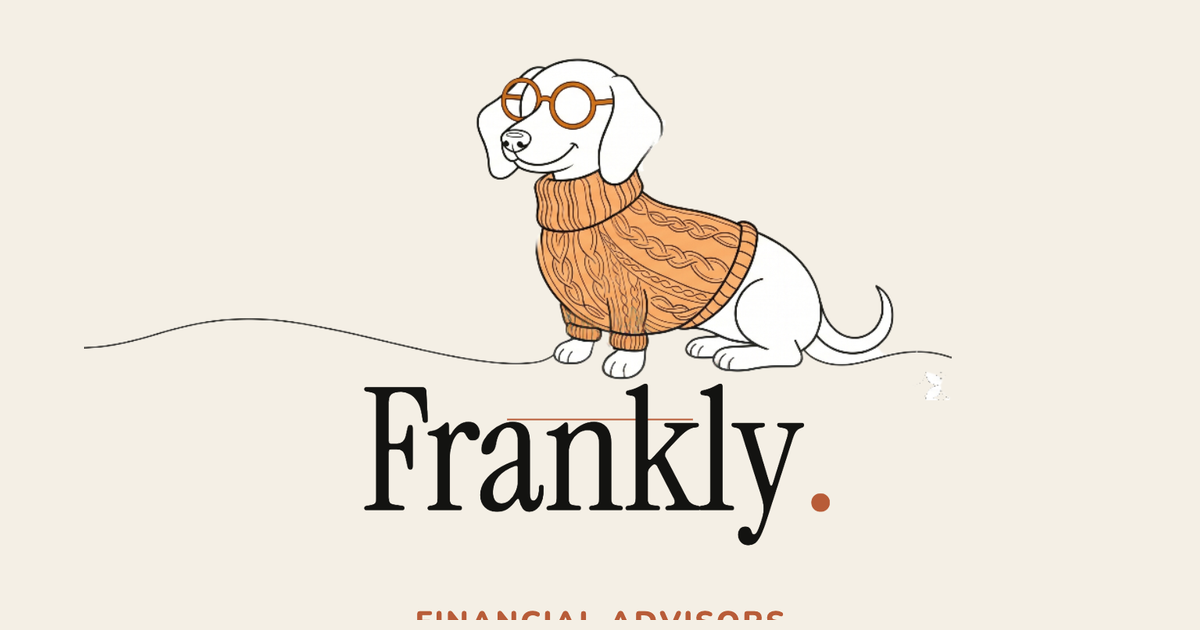
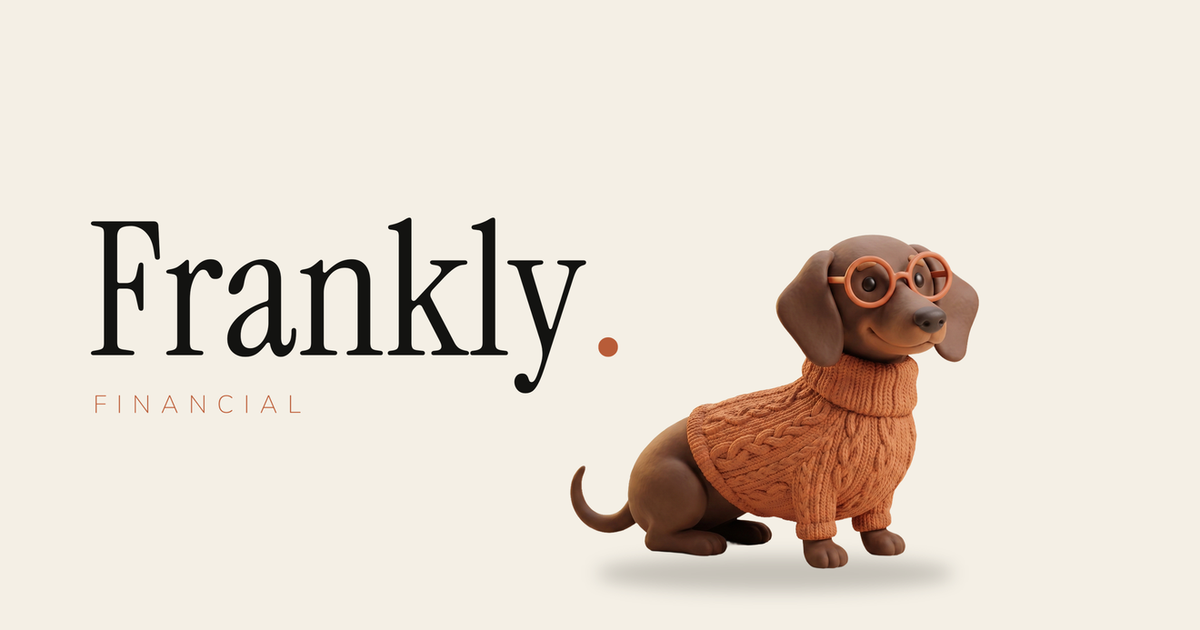
Rebrand stragglers: Instrument Serif monogram, new og-image, retire line-art
- favicon.svg: F. monogram re-set in Instrument Serif (was Georgia), glyph
  converted to an SVG path so no viewer font is needed
- All raster icons regenerated from the Instrument Serif TTF: favicon.ico
  (root + images/), favicon-16x16/32x32, apple-touch-icon, icon-192/512
- og-image.png: new 1200x630 share card cropped from the design-system
  wordmark + 3D-clay-Frank hero lockup (replaces the old sketch-mascot
  "FINANCIAL ADVISORS" card)
- T2 blog cover SVG: "T2" re-set as Instrument Serif paths
- Icon/og references cache-busted v2 -> v3 site-wide (images/* ships with
  immutable 1y caching); site.webmanifest icons versioned too
- Removed retired hand-sketched line-art assets, all unreferenced:
  hero-dog.png, about-businessman.png, phone-receiver.png, cash-stack.png

diff --git a/index.html b/index.html
@@ -22,7 +22,7 @@
 <meta property="og:url" content="https://franklyfinancial.co/">
 <meta property="og:title" content="Frankly Financial — Bookkeeping for businesses that hate bookkeeping.">
 <meta property="og:description" content="Real humans, real numbers, real answers, delivered monthly. CFO-grade rigour, no CFO-grade invoice.">
-<meta property="og:image" content="https://franklyfinancial.co/images/og-image.png?v=2">
+<meta property="og:image" content="https://franklyfinancial.co/images/og-image.png?v=3">
 <meta property="og:image:width" content="1200">
 <meta property="og:image:height" content="630">
 <meta property="og:site_name" content="Frankly Financial">
@@ -30,7 +30,7 @@
 <meta name="twitter:card" content="summary_large_image">
 <meta name="twitter:title" content="Frankly Financial — Bookkeeping for businesses that hate bookkeeping.">
 <meta name="twitter:description" content="Real humans, real numbers, real answers, delivered monthly.">
-<meta name="twitter:image" content="https://franklyfinancial.co/images/og-image.png?v=2">
+<meta name="twitter:image" content="https://franklyfinancial.co/images/og-image.png?v=3">
 
 <script type="application/ld+json">
 {
@@ -39,7 +39,7 @@
   "name": "Frankly Financial",
   "url": "https://franklyfinancial.co",
   "image": "https://franklyfinancial.co/images/og-image.png",
-  "logo": "https://franklyfinancial.co/images/icon-512.png",
+  "logo": "https://franklyfinancial.co/images/icon-512.png?v=3",
   "email": "hello@franklyfinancial.co",
   "description": "Bookkeeping, financial reporting, and tax support for small businesses across Canada and the United States, including cross-border Canada–US filings. Real humans, real numbers, real answers, delivered monthly.",
   "areaServed": [
@@ -72,15 +72,15 @@
   "@type": "WebSite",
   "name": "Frankly Financial",
   "url": "https://franklyfinancial.co",
-  "publisher": {"@type": "Organization", "name": "Frankly Financial", "logo": {"@type": "ImageObject", "url": "https://franklyfinancial.co/images/icon-512.png"}}
+  "publisher": {"@type": "Organization", "name": "Frankly Financial", "logo": {"@type": "ImageObject", "url": "https://franklyfinancial.co/images/icon-512.png?v=3"}}
 }
 </script>
 
-<link rel="icon" type="image/svg+xml" href="/images/favicon.svg?v=2">
-<link rel="icon" type="image/x-icon" href="/images/favicon.ico?v=2">
-<link rel="icon" type="image/png" sizes="32x32" href="/images/favicon-32x32.png?v=2">
-<link rel="icon" type="image/png" sizes="16x16" href="/images/favicon-16x16.png?v=2">
-<link rel="apple-touch-icon" sizes="180x180" href="/images/apple-touch-icon.png?v=2">
+<link rel="icon" type="image/svg+xml" href="/images/favicon.svg?v=3">
+<link rel="icon" type="image/x-icon" href="/images/favicon.ico?v=3">
+<link rel="icon" type="image/png" sizes="32x32" href="/images/favicon-32x32.png?v=3">
+<link rel="icon" type="image/png" sizes="16x16" href="/images/favicon-16x16.png?v=3">
+<link rel="apple-touch-icon" sizes="180x180" href="/images/apple-touch-icon.png?v=3">
 <link rel="manifest" href="/site.webmanifest">
 <meta name="theme-color" content="#F4EFE5">
 

diff --git a/blog/index.html b/blog/index.html
@@ -19,12 +19,12 @@
 <meta property="og:url" content="https://franklyfinancial.co/blog/">
 <meta property="og:title" content="The Frankly Blog — Money Answers for Toronto Small Businesses">
 <meta property="og:description" content="Plain-English guides on accounting, bookkeeping, corporate tax, HST, and payroll for Toronto small businesses. Real 2026 numbers, no jargon.">
-<meta property="og:image" content="https://franklyfinancial.co/images/og-image.png">
+<meta property="og:image" content="https://franklyfinancial.co/images/og-image.png?v=3">
 <meta property="og:site_name" content="Frankly Financial">
 <meta name="twitter:card" content="summary_large_image">
 <meta name="twitter:title" content="The Frankly Blog — Money Answers for Toronto Small Businesses">
 <meta name="twitter:description" content="Plain-English guides on accounting, bookkeeping, tax, HST, and payroll for Toronto small businesses.">
-<meta name="twitter:image" content="https://franklyfinancial.co/images/og-image.png">
+<meta name="twitter:image" content="https://franklyfinancial.co/images/og-image.png?v=3">
 <script type="application/ld+json">
 {
   "@context": "https://schema.org",
@@ -41,7 +41,7 @@
   "@type": "AccountingService",
   "name": "Frankly Financial",
   "url": "https://franklyfinancial.co",
-  "image": "https://franklyfinancial.co/images/og-image.png",
+  "image": "https://franklyfinancial.co/images/og-image.png?v=3",
   "description": "Bookkeeping, financial reporting, and tax support for small businesses in Toronto and across Canada. Real humans, real numbers, real answers.",
   "areaServed": [
     {"@type": "City", "name": "Toronto"},
@@ -53,11 +53,11 @@
   "sameAs": ["https://www.linkedin.com/company/franklyfinancial/", "https://www.instagram.com/frankly.financial/", "https://www.tiktok.com/@franklyfinancial"]
 }
 </script>
-<link rel="icon" type="image/svg+xml" href="/images/favicon.svg?v=2">
-<link rel="icon" type="image/x-icon" href="/images/favicon.ico?v=2">
-<link rel="icon" type="image/png" sizes="32x32" href="/images/favicon-32x32.png?v=2">
-<link rel="icon" type="image/png" sizes="16x16" href="/images/favicon-16x16.png?v=2">
-<link rel="apple-touch-icon" sizes="180x180" href="/images/apple-touch-icon.png?v=2">
+<link rel="icon" type="image/svg+xml" href="/images/favicon.svg?v=3">
+<link rel="icon" type="image/x-icon" href="/images/favicon.ico?v=3">
+<link rel="icon" type="image/png" sizes="32x32" href="/images/favicon-32x32.png?v=3">
+<link rel="icon" type="image/png" sizes="16x16" href="/images/favicon-16x16.png?v=3">
+<link rel="apple-touch-icon" sizes="180x180" href="/images/apple-touch-icon.png?v=3">
 <link rel="manifest" href="/site.webmanifest">
 <meta name="theme-color" content="#F4EFE5">
 <link rel="preconnect" href="https://fonts.googleapis.com">

diff --git a/termsofuse.html b/termsofuse.html
@@ -14,11 +14,11 @@
   gtag('config', 'G-4472WPYKS1');
 </script>
 <meta name="description" content="Terms of use for the Frankly Financial client portal, including connected accounting platforms such as QuickBooks Online.">
-<link rel="icon" type="image/svg+xml" href="/images/favicon.svg?v=2">
-<link rel="icon" type="image/x-icon" href="/images/favicon.ico?v=2">
-<link rel="icon" type="image/png" sizes="32x32" href="/images/favicon-32x32.png?v=2">
-<link rel="icon" type="image/png" sizes="16x16" href="/images/favicon-16x16.png?v=2">
-<link rel="apple-touch-icon" sizes="180x180" href="/images/apple-touch-icon.png?v=2">
+<link rel="icon" type="image/svg+xml" href="/images/favicon.svg?v=3">
+<link rel="icon" type="image/x-icon" href="/images/favicon.ico?v=3">
+<link rel="icon" type="image/png" sizes="32x32" href="/images/favicon-32x32.png?v=3">
+<link rel="icon" type="image/png" sizes="16x16" href="/images/favicon-16x16.png?v=3">
+<link rel="apple-touch-icon" sizes="180x180" href="/images/apple-touch-icon.png?v=3">
 <link rel="manifest" href="/site.webmanifest">
 <meta name="theme-color" content="#F4EFE5">
 <link rel="preconnect" href="https://fonts.googleapis.com">

diff --git a/termsofservice.html b/termsofservice.html
@@ -14,11 +14,11 @@
   gtag('config', 'G-4472WPYKS1');
 </script>
 <meta name="description" content="Data handling, confidentiality, and use of technology policy for Frankly Financial Ltd.">
-<link rel="icon" type="image/svg+xml" href="/images/favicon.svg?v=2">
-<link rel="icon" type="image/x-icon" href="/images/favicon.ico?v=2">
-<link rel="icon" type="image/png" sizes="32x32" href="/images/favicon-32x32.png?v=2">
-<link rel="icon" type="image/png" sizes="16x16" href="/images/favicon-16x16.png?v=2">
-<link rel="apple-touch-icon" sizes="180x180" href="/images/apple-touch-icon.png?v=2">
+<link rel="icon" type="image/svg+xml" href="/images/favicon.svg?v=3">
+<link rel="icon" type="image/x-icon" href="/images/favicon.ico?v=3">
+<link rel="icon" type="image/png" sizes="32x32" href="/images/favicon-32x32.png?v=3">
+<link rel="icon" type="image/png" sizes="16x16" href="/images/favicon-16x16.png?v=3">
+<link rel="apple-touch-icon" sizes="180x180" href="/images/apple-touch-icon.png?v=3">
 <link rel="manifest" href="/site.webmanifest">
 <meta name="theme-color" content="#F4EFE5">
 <link rel="preconnect" href="https://fonts.googleapis.com">

diff --git a/blog/hst-small-business-ontario.html b/blog/hst-small-business-ontario.html
@@ -103,11 +103,11 @@
   ]
 }
 </script>
-<link rel="icon" type="image/svg+xml" href="/images/favicon.svg?v=2">
-<link rel="icon" type="image/x-icon" href="/images/favicon.ico?v=2">
-<link rel="icon" type="image/png" sizes="32x32" href="/images/favicon-32x32.png?v=2">
-<link rel="icon" type="image/png" sizes="16x16" href="/images/favicon-16x16.png?v=2">
-<link rel="apple-touch-icon" sizes="180x180" href="/images/apple-touch-icon.png?v=2">
+<link rel="icon" type="image/svg+xml" href="/images/favicon.svg?v=3">
+<link rel="icon" type="image/x-icon" href="/images/favicon.ico?v=3">
+<link rel="icon" type="image/png" sizes="32x32" href="/images/favicon-32x32.png?v=3">
+<link rel="icon" type="image/png" sizes="16x16" href="/images/favicon-16x16.png?v=3">
+<link rel="apple-touch-icon" sizes="180x180" href="/images/apple-touch-icon.png?v=3">
 <link rel="manifest" href="/site.webmanifest">
 <meta name="theme-color" content="#F4EFE5">
 <link rel="preconnect" href="https://fonts.googleapis.com">

diff --git a/blog/incorporation-vs-sole-proprietorship-ontario.html b/blog/incorporation-vs-sole-proprietorship-ontario.html
@@ -108,11 +108,11 @@
   ]
 }
 </script>
-<link rel="icon" type="image/svg+xml" href="/images/favicon.svg?v=2">
-<link rel="icon" type="image/x-icon" href="/images/favicon.ico?v=2">
-<link rel="icon" type="image/png" sizes="32x32" href="/images/favicon-32x32.png?v=2">
-<link rel="icon" type="image/png" sizes="16x16" href="/images/favicon-16x16.png?v=2">
-<link rel="apple-touch-icon" sizes="180x180" href="/images/apple-touch-icon.png?v=2">
+<link rel="icon" type="image/svg+xml" href="/images/favicon.svg?v=3">
+<link rel="icon" type="image/x-icon" href="/images/favicon.ico?v=3">
+<link rel="icon" type="image/png" sizes="32x32" href="/images/favicon-32x32.png?v=3">
+<link rel="icon" type="image/png" sizes="16x16" href="/images/favicon-16x16.png?v=3">
+<link rel="apple-touch-icon" sizes="180x180" href="/images/apple-touch-icon.png?v=3">
 <link rel="manifest" href="/site.webmanifest">
 <meta name="theme-color" content="#F4EFE5">
 <link rel="preconnect" href="https://fonts.googleapis.com">

diff --git a/blog/payroll-small-business-ontario.html b/blog/payroll-small-business-ontario.html
@@ -103,11 +103,11 @@
   ]
 }
 </script>
-<link rel="icon" type="image/svg+xml" href="/images/favicon.svg?v=2">
-<link rel="icon" type="image/x-icon" href="/images/favicon.ico?v=2">
-<link rel="icon" type="image/png" sizes="32x32" href="/images/favicon-32x32.png?v=2">
-<link rel="icon" type="image/png" sizes="16x16" href="/images/favicon-16x16.png?v=2">
-<link rel="apple-touch-icon" sizes="180x180" href="/images/apple-touch-icon.png?v=2">
+<link rel="icon" type="image/svg+xml" href="/images/favicon.svg?v=3">
+<link rel="icon" type="image/x-icon" href="/images/favicon.ico?v=3">
+<link rel="icon" type="image/png" sizes="32x32" href="/images/favicon-32x32.png?v=3">
+<link rel="icon" type="image/png" sizes="16x16" href="/images/favicon-16x16.png?v=3">
+<link rel="apple-touch-icon" sizes="180x180" href="/images/apple-touch-icon.png?v=3">
 <link rel="manifest" href="/site.webmanifest">
 <meta name="theme-color" content="#F4EFE5">
 <link rel="preconnect" href="https://fonts.googleapis.com">

diff --git a/blog/small-business-accountant-toronto.html b/blog/small-business-accountant-toronto.html
@@ -103,11 +103,11 @@
   ]
 }
 </script>
-<link rel="icon" type="image/svg+xml" href="/images/favicon.svg?v=2">
-<link rel="icon" type="image/x-icon" href="/images/favicon.ico?v=2">
-<link rel="icon" type="image/png" sizes="32x32" href="/images/favicon-32x32.png?v=2">
-<link rel="icon" type="image/png" sizes="16x16" href="/images/favicon-16x16.png?v=2">
-<link rel="apple-touch-icon" sizes="180x180" href="/images/apple-touch-icon.png?v=2">
+<link rel="icon" type="image/svg+xml" href="/images/favicon.svg?v=3">
+<link rel="icon" type="image/x-icon" href="/images/favicon.ico?v=3">
+<link rel="icon" type="image/png" sizes="32x32" href="/images/favicon-32x32.png?v=3">
+<link rel="icon" type="image/png" sizes="16x16" href="/images/favicon-16x16.png?v=3">
+<link rel="apple-touch-icon" sizes="180x180" href="/images/apple-touch-icon.png?v=3">
 <link rel="manifest" href="/site.webmanifest">
 <meta name="theme-color" content="#F4EFE5">
 <link rel="preconnect" href="https://fonts.googleapis.com">

diff --git a/blog/best-bookkeeping-accounting-services-toronto.html b/blog/best-bookkeeping-accounting-services-toronto.html
@@ -93,11 +93,11 @@
   ]
 }
 </script>
-<link rel="icon" type="image/svg+xml" href="/images/favicon.svg?v=2">
-<link rel="icon" type="image/x-icon" href="/images/favicon.ico?v=2">
-<link rel="icon" type="image/png" sizes="32x32" href="/images/favicon-32x32.png?v=2">
-<link rel="icon" type="image/png" sizes="16x16" href="/images/favicon-16x16.png?v=2">
-<link rel="apple-touch-icon" sizes="180x180" href="/images/apple-touch-icon.png?v=2">
+<link rel="icon" type="image/svg+xml" href="/images/favicon.svg?v=3">
+<link rel="icon" type="image/x-icon" href="/images/favicon.ico?v=3">
+<link rel="icon" type="image/png" sizes="32x32" href="/images/favicon-32x32.png?v=3">
+<link rel="icon" type="image/png" sizes="16x16" href="/images/favicon-16x16.png?v=3">
+<link rel="apple-touch-icon" sizes="180x180" href="/images/apple-touch-icon.png?v=3">
 <link rel="manifest" href="/site.webmanifest">
 <meta name="theme-color" content="#F4EFE5">
 <link rel="preconnect" href="https://fonts.googleapis.com">

diff --git a/blog/bookkeeper-cost-canada.html b/blog/bookkeeper-cost-canada.html
@@ -88,11 +88,11 @@
   ]
 }
 </script>
-<link rel="icon" type="image/svg+xml" href="/images/favicon.svg?v=2">
-<link rel="icon" type="image/x-icon" href="/images/favicon.ico?v=2">
-<link rel="icon" type="image/png" sizes="32x32" href="/images/favicon-32x32.png?v=2">
-<link rel="icon" type="image/png" sizes="16x16" href="/images/favicon-16x16.png?v=2">
-<link rel="apple-touch-icon" sizes="180x180" href="/images/apple-touch-icon.png?v=2">
+<link rel="icon" type="image/svg+xml" href="/images/favicon.svg?v=3">
+<link rel="icon" type="image/x-icon" href="/images/favicon.ico?v=3">
+<link rel="icon" type="image/png" sizes="32x32" href="/images/favicon-32x32.png?v=3">
+<link rel="icon" type="image/png" sizes="16x16" href="/images/favicon-16x16.png?v=3">
+<link rel="apple-touch-icon" sizes="180x180" href="/images/apple-touch-icon.png?v=3">
 <link rel="manifest" href="/site.webmanifest">
 <meta name="theme-color" content="#F4EFE5">
 <link rel="preconnect" href="https://fonts.googleapis.com">

diff --git a/blog/bookkeeping-services-toronto.html b/blog/bookkeeping-services-toronto.html
@@ -88,11 +88,11 @@
   ]
 }
 </script>
-<link rel="icon" type="image/svg+xml" href="/images/favicon.svg?v=2">
-<link rel="icon" type="image/x-icon" href="/images/favicon.ico?v=2">
-<link rel="icon" type="image/png" sizes="32x32" href="/images/favicon-32x32.png?v=2">
-<link rel="icon" type="image/png" sizes="16x16" href="/images/favicon-16x16.png?v=2">
-<link rel="apple-touch-icon" sizes="180x180" href="/images/apple-touch-icon.png?v=2">
+<link rel="icon" type="image/svg+xml" href="/images/favicon.svg?v=3">
+<link rel="icon" type="image/x-icon" href="/images/favicon.ico?v=3">
+<link rel="icon" type="image/png" sizes="32x32" href="/images/favicon-32x32.png?v=3">
+<link rel="icon" type="image/png" sizes="16x16" href="/images/favicon-16x16.png?v=3">
+<link rel="apple-touch-icon" sizes="180x180" href="/images/apple-touch-icon.png?v=3">
 <link rel="manifest" href="/site.webmanifest">
 <meta name="theme-color" content="#F4EFE5">
 <link rel="preconnect" href="https://fonts.googleapis.com">

diff --git a/blog/catch-up-bookkeeping-toronto.html b/blog/catch-up-bookkeeping-toronto.html
@@ -93,11 +93,11 @@
   ]
 }
 </script>
-<link rel="icon" type="image/svg+xml" href="/images/favicon.svg?v=2">
-<link rel="icon" type="image/x-icon" href="/images/favicon.ico?v=2">
-<link rel="icon" type="image/png" sizes="32x32" href="/images/favicon-32x32.png?v=2">
-<link rel="icon" type="image/png" sizes="16x16" href="/images/favicon-16x16.png?v=2">
-<link rel="apple-touch-icon" sizes="180x180" href="/images/apple-touch-icon.png?v=2">
+<link rel="icon" type="image/svg+xml" href="/images/favicon.svg?v=3">
+<link rel="icon" type="image/x-icon" href="/images/favicon.ico?v=3">
+<link rel="icon" type="image/png" sizes="32x32" href="/images/favicon-32x32.png?v=3">
+<link rel="icon" type="image/png" sizes="16x16" href="/images/favicon-16x16.png?v=3">
+<link rel="apple-touch-icon" sizes="180x180" href="/images/apple-touch-icon.png?v=3">
 <link rel="manifest" href="/site.webmanifest">
 <meta name="theme-color" content="#F4EFE5">
 <link rel="preconnect" href="https://fonts.googleapis.com">
